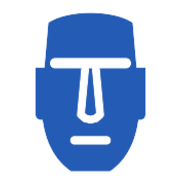
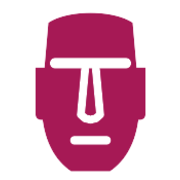
Accent POSTECH Red; neutral fills, red only for the MOAI hub and highlights

diff --git a/_themes/wide/includes/theme.css b/_themes/wide/includes/theme.css
@@ -10,8 +10,8 @@
 */
 :root {
   /* 1. primitives */
-  --blue-700: #245bb5;
-  --blue-100: #d5e6f5;
+  --red-700: #a61955;     /* POSTECH Red (Pantone 215 C, RGB 166 25 85), the one accent */
+  --red-100: #f6e4ec;
   --ink-900: #172b40;
   --ink-600: #596574;
   --ink-500: #6b7683;   /* 4.6:1 on white */
@@ -41,8 +41,8 @@
   --muted: var(--ink-600);
   --faint: var(--ink-500);
   --line: var(--gray-200);
-  --accent: var(--blue-700);
-  --accent-soft: var(--blue-100);
+  --accent: var(--red-700);
+  --accent-soft: var(--red-100);
   --text-small: var(--fs-1);
   --text-meta: var(--fs-2);
   --text-body: var(--fs-3);
@@ -142,13 +142,14 @@ main > :last-child { padding-bottom: var(--space-9); }  /* the page ends with sp
 .focus-papers { flex: 1; display: grid; grid-template-columns: repeat(3, minmax(0, 1fr)); grid-auto-rows: 1fr; gap: var(--space-5); }  /* cards take the spare height, so the people line stays put */
 .paper-chip { display: flex; flex-direction: column; gap: var(--space-3); padding: var(--space-5); background: var(--surface); border-radius: var(--radius-2); color: var(--text); }
 a.paper-chip:hover { color: var(--accent); text-decoration: none; box-shadow: 0 0 0 1.5px var(--accent); }
+.paper-chip .venue { background: var(--bg); }  /* the card is already grey, so its badge is white */
 .paper-chip .paper-title { font-weight: 600; line-height: 1.45; }
 .focus-people { display: flex; flex-wrap: wrap; align-items: baseline; gap: var(--space-1) var(--space-5); margin: var(--space-5) 0 0; font-size: var(--text-meta); font-weight: 500; }
 .focus-people .label { color: var(--faint); font-size: var(--text-small); font-weight: 600; text-transform: uppercase; letter-spacing: .06em; }
 .focus-people a, .focus-people span:not(.label) { color: var(--text); }
 .focus-people a:hover { color: var(--accent); }
 
-.venue { align-self: flex-start; display: inline-block; padding: 1px var(--space-2); background: var(--accent-soft); color: var(--accent); border-radius: 4px; font-size: var(--text-small); font-weight: 600; letter-spacing: .01em; }
+.venue { align-self: flex-start; display: inline-block; padding: 1px var(--space-2); background: var(--surface); color: var(--text); border-radius: 4px; font-size: var(--text-small); font-weight: 600; letter-spacing: .01em; }
 
 /* Lists: light items (courses, talks, funding, seminar) are one row: the title on the left, term, place, or years right-aligned at the end.
    Mentees too: name and affiliation on the left, papers at the right end. Publications use several lines. */

diff --git a/tools/og/og.html b/tools/og/og.html
@@ -3,7 +3,7 @@
 <link rel="stylesheet" href="https://fonts.googleapis.com/css2?family=Outfit:wght@700&display=swap">
 <style>html,body{margin:0;width:1200px;height:630px;background:linear-gradient(180deg,#f3f6fa,#fff);font-family:"Pretendard Variable",sans-serif;color:#172b40}
 .wrap{display:grid;grid-template-columns:1fr 440px;align-items:center;gap:40px;height:630px;padding:0 70px;box-sizing:border-box}
-h1{font-size:44px;line-height:1.15;letter-spacing:-1px;margin:0}h1 b{color:#245bb5;font-weight:inherit}
+h1{font-size:44px;line-height:1.15;letter-spacing:-1px;margin:0}h1 b{color:#a61955;font-weight:inherit}
 .brand{display:flex;align-items:center;gap:12px;font-family:Outfit,sans-serif;font-weight:700;font-size:30px;margin-bottom:36px}.brand img{width:40px;height:40px}
 p{margin:24px 0 0;font-size:22px;color:#596574;line-height:1.5}img.art{width:440px}</style></head>
 <body><div class="wrap"><div><div class="brand"><img src="../../assets/img/logo-mark.svg">MOAI Lab</div>

diff --git a/changelog/2026-10-21-postech-red.md b/changelog/2026-10-21-postech-red.md
@@ -1,0 +1,20 @@
+# 강조색을 POSTECH Red 로 (2026-10-21)
+
+- 작성: Sangwoo Mo(moai-postech), 에이전트 Claude
+- 대상: `theme.css`(색 토큰), `assets/img/`(hero.svg, logo-mark.svg, icons/*.svg, icons/*.png, og.png, apple-touch-icon.png), `tools/og/og.html`
+
+## 바꾼 것
+
+- 교수: POSTECH 공식 색(크림슨)을 넣자. 그것만 계속 쓰면 과하지만 어쨌든 들어가면 좋겠다.
+- 강조색 토큰을 파랑(#245bb5)에서 POSTECH Red(#a61955, Pantone 215 C, RGB 166 25 85, 학교 로고 안내의 공식 RGB 를 16진수로 옮김)로 바꿨다. 팔레트 규칙대로 강조색은 여전히 하나다. 쓰이는 곳: 로고, 제목의 M·O·A·I, 메뉴·하위 탭의 현재 위치, focus 탭, 링크, Oral 같은 성과 표시.
+- 과하지 않게 면으로 칠하던 곳은 무채색으로 돌렸다. venue 배지는 연회색 바탕에 본문색 글자(회색 카드 안에서는 흰 바탕). hero 그림과 focus 아이콘, Research 분야 아이콘의 선·면은 슬레이트 회색(#3F4C5A, #BAC4CF, #ECEFF3)으로 바꾸고, hero 가운데 MOAI 원과 흐름 점만 빨강으로 남겼다. 그림에서 빨강이 "orchestration" 자리 하나에만 모인다.
+- 링크 미리보기 이미지와 iOS 아이콘도 새 색으로 다시 만들었다.
+
+## 기각한 안
+
+- 강조색을 빨강 전체로 바꾸고 배지·그림까지 빨강: 화면에 빨간 면이 많아져 경고색처럼 무겁다(교수: 과하다).
+- 파랑을 두고 빨강을 둘째 강조색으로 더하기: 팔레트 규칙(강조 1색) 위반이고 파랑·빨강이 서로 다툰다.
+
+## 사고와 복구
+
+- 아이콘 SVG 를 바꾸는 스크립트가 같은 파일을 읽기 전에 쓰기로 열어 logo-mark.svg 와 focus 아이콘 셋이 빈 파일이 됐다. 바꾸기 전에 scratchpad `backup/img-blue/` 에 복사해 둔 원본에서 되살려 다시 색을 바꿨고, 빈 SVG 가 남지 않았는지 확인했다. 원래 파란 그림 원본은 그 백업과 git 이력에 있다.

diff --git a/changelog/index.md b/changelog/index.md
@@ -5,6 +5,7 @@
 
 | 날짜 | 회차 | 작성자 | 대상 | 한 줄 요약 |
 | --- | --- | --- | --- | --- |
+| 2026-10-21 | [postech-red](2026-10-21-postech-red.md) | Sangwoo Mo(moai-postech) | 테마, 그림 | 강조색을 POSTECH Red 로, 배지·그림의 면은 무채색, hero 의 MOAI 원만 빨강 |
 | 2026-10-21 | [mentees-rows](2026-10-21-mentees-rows.md) | Sangwoo Mo(moai-postech) | Mentees, AGENTS.md | 멘티를 한 사람 한 줄로(이름·소속 왼쪽, 논문 venue 오른쪽) |
 | 2026-10-21 | [design-sweep](2026-10-21-design-sweep.md) | Sangwoo Mo(moai-postech) | Home, 테마, 여러 페이지 | Hero 를 multimodal orchestration 중심으로, 소개 아래 여백, 지도 로딩 표시, 휴대폰 전화·사진·멘티 줄, NeurIPS 뉴스 키워드 |
 | 2026-10-21 | [hero-orchestrate](2026-10-21-hero-orchestrate.md) | Sangwoo Mo(moai-postech) | Home | Hero 문장에 orchestrate·멀티모달 입력을 넣어 랩 이름과 잇고 scalable priors 유지, meta description 맞춤 |
